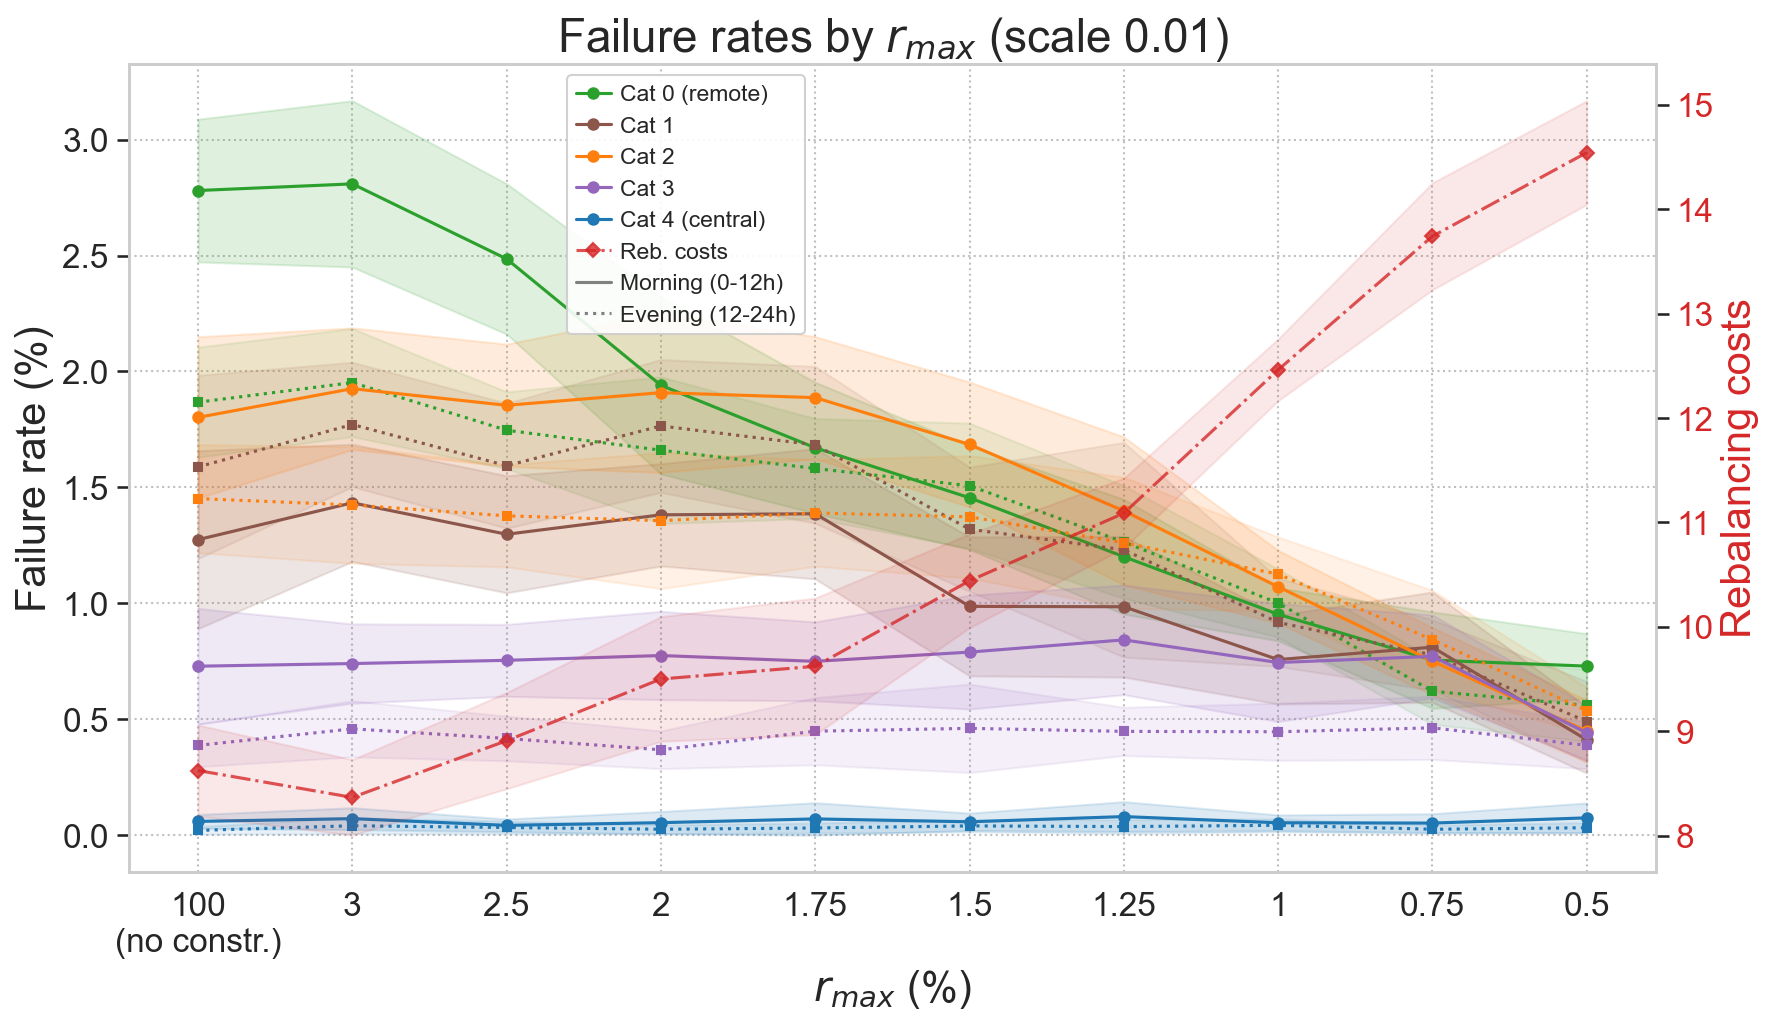
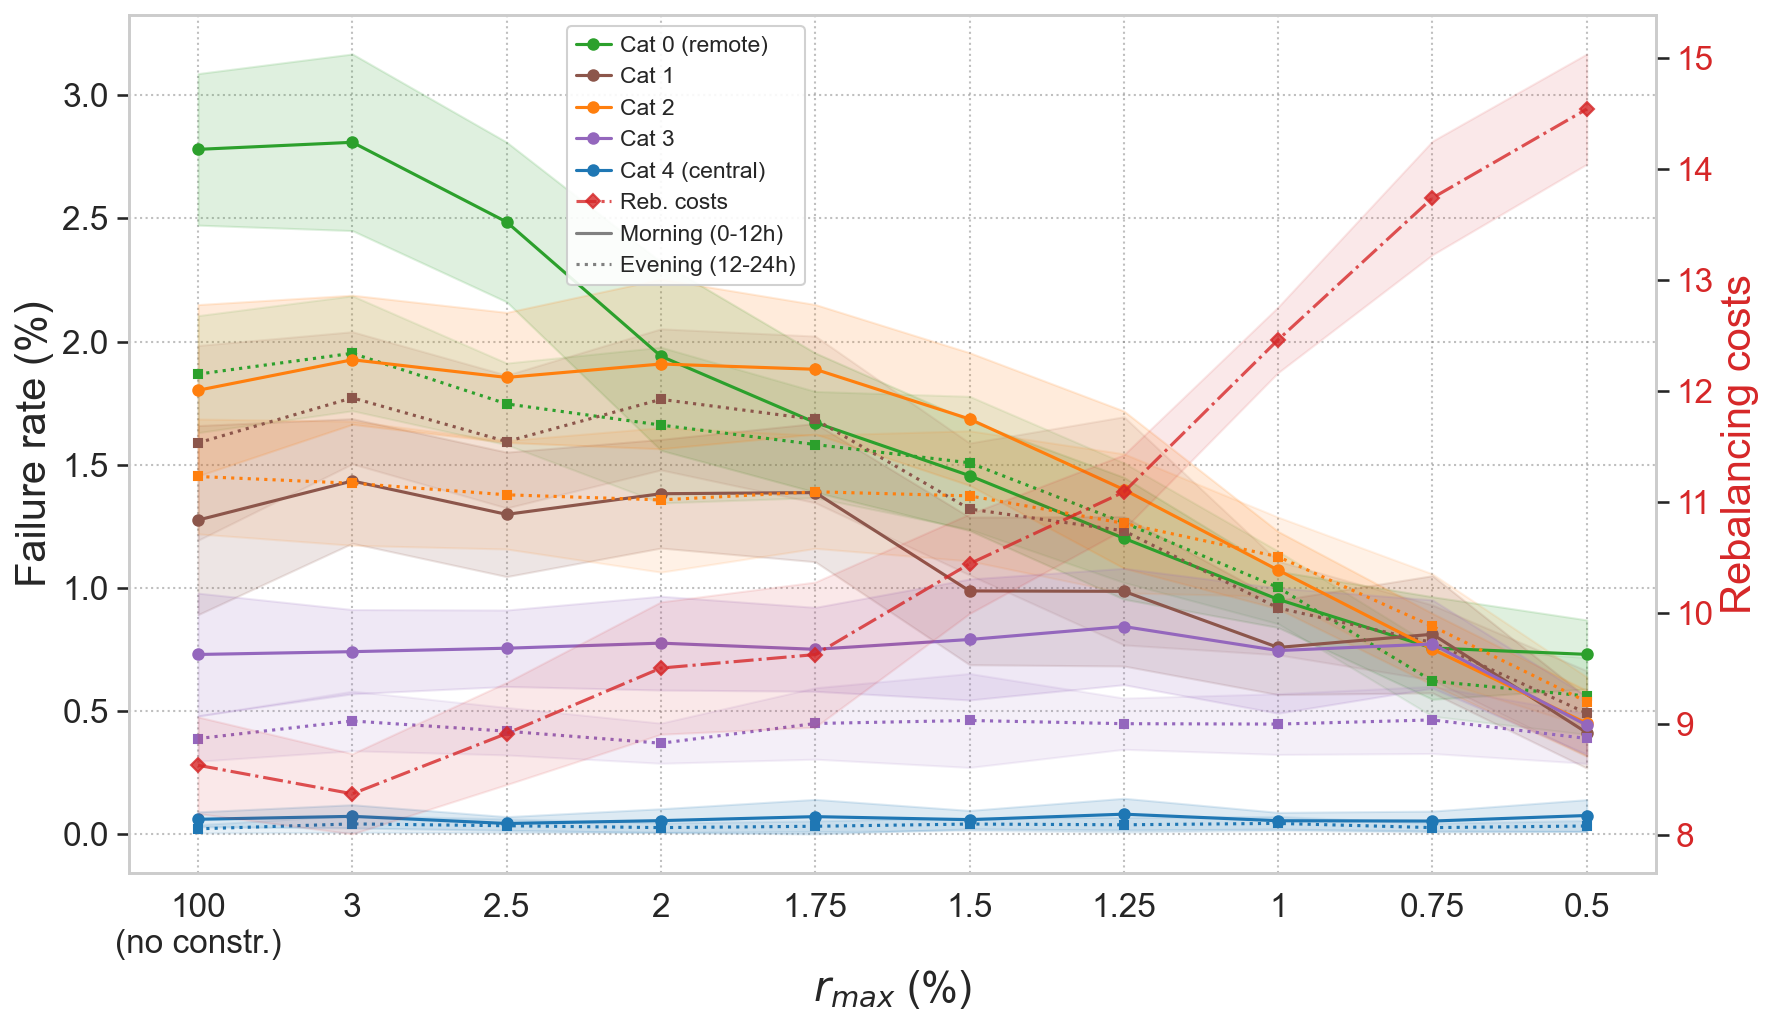
Improve plots for thesis document

diff --git a/cmdp/plots/boxplots.py b/cmdp/plots/boxplots.py
@@ -69,6 +69,7 @@ def tick_fmt(val, pos):
 
 
 r_max_labels = [_fmt(r) for r in r_values]
+r_max_pct_labels = [_fmt(round(r * 100, 4)) for r in r_values]
 num_r_max = len(r_values)
 
 # GINI INDEX
@@ -76,7 +77,7 @@ num_r_max = len(r_values)
 sns.set(style="whitegrid")
 fig, ax = plt.subplots(figsize=(12, 6), dpi=100)
 box_color = sns.color_palette("viridis", 11)[7]
-box = ax.boxplot(gini, patch_artist=True, notch=False, vert=True, widths=0.6)
+box = ax.boxplot(gini * 100, patch_artist=True, notch=False, vert=True, widths=0.6)
 for patch in box["boxes"]:
     patch.set_facecolor(box_color)
     patch.set_edgecolor("black")
@@ -90,14 +91,14 @@ for median in box["medians"]:
     median.set(color="black", linewidth=1.5)
 for flier in box["fliers"]:
     flier.set(marker="o", color="red", alpha=0.75)
-ax.set_xlabel(r"$r_{max}$", fontsize=36)
-ax.set_ylabel("Gini index", fontsize=36)
+ax.set_xlabel(r"$r_{max}$ [%]", fontsize=36)
+ax.set_ylabel("Gini index [%]", fontsize=36)
 ax.grid(True, which="major", linestyle=":", linewidth=1, color="grey", alpha=0.7)
 ax.set_xticks(range(1, num_r_max + 1))
-ax.set_xticklabels(r_max_labels, fontsize=34)
+ax.set_xticklabels(r_max_pct_labels, fontsize=26)
 ax.invert_xaxis()
 ax.tick_params(labelsize=34)
-ax.yaxis.set_major_locator(MultipleLocator(0.05))
+ax.yaxis.set_major_locator(MultipleLocator(5))
 ax.yaxis.set_major_formatter(FuncFormatter(tick_fmt))
 plt.tight_layout()
 if args.save:
@@ -107,83 +108,53 @@ if args.save:
     )
 plt.show()
 
-# MAX CATEGORY FAILURE RATE (MORNING)
+# MAX CATEGORY FAILURE RATE (MORNING + EVENING, SIDE BY SIDE)
+# r_max is shown in percent so the x-axis matches the percent y-axis.
 
 sns.set(style="whitegrid")
-fig, ax = plt.subplots(figsize=(12, 6), dpi=100)
-box_color = sns.color_palette("viridis", 11)[4]
-box = ax.boxplot(
-    max_fail_morning, patch_artist=True, notch=False, vert=True, widths=0.6
-)
-for patch in box["boxes"]:
-    patch.set_facecolor(box_color)
-    patch.set_edgecolor("black")
-    patch.set_alpha(0.8)
-    patch.set_linewidth(1.5)
-for whisker in box["whiskers"]:
-    whisker.set(color="black", linewidth=1.5, linestyle="--")
-for cap in box["caps"]:
-    cap.set(color="black", linewidth=1.5)
-for median in box["medians"]:
-    median.set(color="gold", linewidth=1.5)
-for flier in box["fliers"]:
-    flier.set(marker="o", color="red", alpha=0.75)
-ax.set_xlabel(r"$r_{max}$", fontsize=36)
-ax.set_ylabel("Max fail. [%] (morning)", fontsize=28)
-ax.grid(True, which="major", linestyle=":", linewidth=1, color="grey", alpha=0.7)
-ax.set_xticks(range(1, num_r_max + 1))
-ax.set_xticklabels(r_max_labels, fontsize=34)
-ax.invert_xaxis()
-ax.tick_params(labelsize=32)
-ax.yaxis.set_major_locator(MultipleLocator(2.5))
-ax.yaxis.set_major_formatter(FuncFormatter(tick_fmt))
+fig, axes = plt.subplots(1, 2, figsize=(20, 7), dpi=100)
+r_max_pct_labels = [_fmt(round(r * 100, 4)) for r in r_values]
+
+panels = [
+    (axes[0], max_fail_morning, "Morning", 4, 2.5),
+    (axes[1], max_fail_evening, "Evening", 5, 0.5),
+]
+for ax, data, title, palette_idx, y_step in panels:
+    box_color = sns.color_palette("viridis", 11)[palette_idx]
+    box = ax.boxplot(data, patch_artist=True, notch=False, vert=True, widths=0.6)
+    for patch in box["boxes"]:
+        patch.set_facecolor(box_color)
+        patch.set_edgecolor("black")
+        patch.set_alpha(0.8)
+        patch.set_linewidth(1.5)
+    for whisker in box["whiskers"]:
+        whisker.set(color="black", linewidth=1.5, linestyle="--")
+    for cap in box["caps"]:
+        cap.set(color="black", linewidth=1.5)
+    for median in box["medians"]:
+        median.set(color="gold", linewidth=1.5)
+    for flier in box["fliers"]:
+        flier.set(marker="o", color="red", alpha=0.75)
+    # optional: draw the r_max target each box must stay under (same % units as y)
+    # for k, r in enumerate(r_values, start=1):
+    #     ax.hlines(r * 100, k - 0.3, k + 0.3, color="red", linewidth=2)
+    ax.set_title(title, fontsize=26)
+    ax.set_xlabel(r"$r_{max}$ [%]", fontsize=24)
+    if ax is axes[0]:
+        ax.set_ylabel("Max failure rate [%]", fontsize=22)
+    ax.grid(True, which="major", linestyle=":", linewidth=1, color="grey", alpha=0.7)
+    ax.set_xticks(range(1, num_r_max + 1))
+    ax.set_xticklabels(r_max_pct_labels, fontsize=18)
+    ax.invert_xaxis()
+    ax.tick_params(labelsize=20)
+    ax.yaxis.set_major_locator(MultipleLocator(y_step))
+    ax.yaxis.set_major_formatter(FuncFormatter(tick_fmt))
 plt.tight_layout()
 if args.save:
     plt.savefig(
         os.path.join(
             PLOT_DIR,
-            f"boxplot_max_failure_rate_morning_{args.categories}_cat_{bf_token}.png",
-        ),
-        format="png",
-    )
-plt.show()
-
-# MAX CATEGORY FAILURE RATE (EVENING)
-
-sns.set(style="whitegrid")
-fig, ax = plt.subplots(figsize=(12, 6), dpi=100)
-box_color = sns.color_palette("viridis", 11)[5]
-box = ax.boxplot(
-    max_fail_evening, patch_artist=True, notch=False, vert=True, widths=0.6
-)
-for patch in box["boxes"]:
-    patch.set_facecolor(box_color)
-    patch.set_edgecolor("black")
-    patch.set_alpha(0.8)
-    patch.set_linewidth(1.5)
-for whisker in box["whiskers"]:
-    whisker.set(color="black", linewidth=1.5, linestyle="--")
-for cap in box["caps"]:
-    cap.set(color="black", linewidth=1.5)
-for median in box["medians"]:
-    median.set(color="gold", linewidth=1.5)
-for flier in box["fliers"]:
-    flier.set(marker="o", color="red", alpha=0.75)
-ax.set_xlabel(r"$r_{max}$", fontsize=36)
-ax.set_ylabel("Max fail. [%] (evening)", fontsize=28)
-ax.grid(True, which="major", linestyle=":", linewidth=1, color="grey", alpha=0.7)
-ax.set_xticks(range(1, num_r_max + 1))
-ax.set_xticklabels(r_max_labels, fontsize=34)
-ax.invert_xaxis()
-ax.tick_params(labelsize=34)
-ax.yaxis.set_major_locator(MultipleLocator(0.5))
-ax.yaxis.set_major_formatter(FuncFormatter(tick_fmt))
-plt.tight_layout()
-if args.save:
-    plt.savefig(
-        os.path.join(
-            PLOT_DIR,
-            f"boxplot_max_failure_rate_evening_{args.categories}_cat_{bf_token}.png",
+            f"boxplot_max_failure_rate_{args.categories}_cat_{bf_token}.png",
         ),
         format="png",
     )

diff --git a/cmdp/plots/paretoplots.py b/cmdp/plots/paretoplots.py
@@ -1,7 +1,7 @@
 """
 CMDP Pareto-style cost vs max-failure-rate plots from evaluation outputs.
 
-Generates separate figures for morning (period 0) and evening (period 1).
+Generates one side-by-side figure with morning (period 0) and evening (period 1).
 
 Usage:
     uv run cmdp/plots/paretoplots.py --categories 5 --failure-cost-coef 0.0 --save
@@ -60,7 +60,13 @@ bf_token = f"bf{fmt_token(args.failure_cost_coef)}"
 max_fr_raw = np.load(
     os.path.join(RESULTS_DIR, f"max_failure_rate_per_period_10seeds_{bf_token}.npy")
 )
-cost_raw = np.load(os.path.join(RESULTS_DIR, f"cost_10seeds_{bf_token}.npy"))
+# Service cost = rebalancing + fleet only. Failures are governed by the
+# constraints, so they are excluded here (note: cost_10seeds also folds in a
+# failure_rate/10 term, which is intentionally left out of this tradeoff axis).
+cost_reb_raw = np.load(os.path.join(RESULTS_DIR, f"cost_reb_10seeds_{bf_token}.npy"))
+cost_bikes_raw = np.load(
+    os.path.join(RESULTS_DIR, f"cost_bikes_10seeds_{bf_token}.npy")
+)
 
 if len(max_fr_raw) != len(R_MAX_VALUES):
     raise ValueError(
@@ -70,9 +76,12 @@ if len(max_fr_raw) != len(R_MAX_VALUES):
 r_values = R_MAX_VALUES
 num_r_max = len(r_values)
 
-# Cost: shape (num_r_max, num_seeds) -> average over seeds
-cost = cost_raw.transpose()
-avg_costs = [np.mean(cost[:, i]) for i in range(num_r_max)]
+# Cost arrays: shape (num_r_max, num_seeds) -> rebalancing + fleet/100, seed-averaged
+cost_reb = cost_reb_raw.transpose()
+cost_bikes = cost_bikes_raw.transpose()
+avg_costs = [
+    float(np.mean(cost_reb[:, i] + cost_bikes[:, i] / 100)) for i in range(num_r_max)
+]
 
 # Max failure rates per period: average over seeds
 avg_max_fr_morning = [np.mean(max_fr_raw[i, :, 0]) for i in range(num_r_max)]
@@ -83,7 +92,7 @@ period_data = [
     ("evening", avg_max_fr_evening),
 ]
 
-labels = [rf"$r_{{max}}$={_fmt(r)}" for r in r_values]
+labels = [rf"$r_{{max}}$={_fmt(round(r * 100, 4))}%" for r in r_values]
 
 # Per-point label offsets per period
 morning_label_offsets = {}
@@ -97,9 +106,9 @@ for value, offset in [
 evening_label_offsets = {}
 for value, offset in [
     (1.0, (-15, -25)),
-    (0.20, (-25, -28)),
-    (0.15, (-15, -25)),
-    (0.125, (0, 8)),
+    (0.20, (8, -28)),
+    (0.15, (-35, -25)),
+    (0.125, (-30, 8)),
     (0.10, (7, 8)),
     (0.0875, (-15, -25)),
 ]:
@@ -109,9 +118,10 @@ for value, offset in [
 DEFAULT_OFFSET = (8, 8)  # above and to the right
 
 sns.set(style="whitegrid")
+fig, axes = plt.subplots(1, 2, figsize=(20, 7), dpi=100)
 
-for period_name, avg_fr in period_data:
-    fig, ax = plt.subplots(figsize=(10, 6), dpi=100)
+for idx, (period_name, avg_fr) in enumerate(period_data):
+    ax = axes[idx]
 
     pareto_indices = compute_pareto_frontier(avg_costs, avg_fr)
     dominated_indices = [i for i in range(num_r_max) if i not in pareto_indices]
@@ -152,22 +162,24 @@ for period_name, avg_fr in period_data:
             (avg_costs[i], avg_fr[i]),
             textcoords="offset points",
             xytext=xytext,
-            fontsize=20,
+            fontsize=16,
         )
 
     # Label dominated points with short labels
     for i in dominated_indices:
         xytext = label_offsets.get(i, DEFAULT_OFFSET)
         ax.annotate(
-            _fmt(r_values[i]),
+            f"{_fmt(round(r_values[i] * 100, 4))}%",
             (avg_costs[i], avg_fr[i]),
             textcoords="offset points",
             xytext=xytext,
-            fontsize=20,
+            fontsize=16,
         )
 
     # Legend
-    dominated_vals = [_fmt(r_values[i]) for i in dominated_indices]
+    dominated_vals = [
+        f"{_fmt(round(r_values[i] * 100, 4))}%" for i in dominated_indices
+    ]
     handles = []
     pareto_marker = ax.scatter(
         [], [], marker="s", color="green", s=120, label="Pareto-optimal"
@@ -181,17 +193,19 @@ for period_name, avg_fr in period_data:
         handles.append(dominated_marker)
     ax.legend(
         handles=handles,
-        fontsize=20,
+        fontsize=16,
         loc="best",
         framealpha=0.4,
     )
 
-    ax.set_ylabel("Max failure rate (%)", fontsize=26)
-    ax.set_xlabel("Global service cost", fontsize=26)
-    ax.tick_params(labelsize=26)
+    ax.set_title(period_name.capitalize(), fontsize=26)
+    ax.set_xlabel("Global service cost", fontsize=24)
+    if idx == 0:
+        ax.set_ylabel("Max failure rate (%)", fontsize=24)
+    ax.tick_params(labelsize=20)
     ax.grid(True, which="major", linestyle=":", linewidth=1, color="grey", alpha=0.7)
 
-    # Extend x-axis to the right so the .05 label fits
+    # Extend x-axis to the right so the rightmost label fits
     xlo, xhi = ax.get_xlim()
     ax.set_xlim(xlo, xhi + 5)
 
@@ -199,13 +213,13 @@ for period_name, avg_fr in period_data:
         ylo, yhi = ax.get_ylim()
         ax.set_ylim(ylo, max(yhi, 7.5))
 
-    plt.tight_layout()
-    if args.save:
-        plt.savefig(
-            os.path.join(
-                PLOT_DIR,
-                f"pareto_costs_maxfr_{period_name}_{cat}_cat_{bf_token}.png",
-            ),
-            format="png",
-        )
-    plt.show()
+plt.tight_layout()
+if args.save:
+    plt.savefig(
+        os.path.join(
+            PLOT_DIR,
+            f"pareto_costs_maxfr_{cat}_cat_{bf_token}.png",
+        ),
+        format="png",
+    )
+plt.show()

diff --git a/cmdp/plots/failure_rates_by_rmax.py b/cmdp/plots/failure_rates_by_rmax.py
@@ -232,7 +232,7 @@ ax.legend(
 )
 
 ax.grid(True, which="major", linestyle=":", linewidth=1, color="grey", alpha=0.5)
-ax.set_title(f"Failure rates by $r_{{max}}$ ({M} categories)", fontsize=22)
+# ax.set_title(f"Failure rates by $r_{{max}}$ ({M} categories)", fontsize=22)
 plt.tight_layout()
 
 if args.save:

diff --git a/cmdp_den_haag_case/plots/failure_rates_by_rmax.py b/cmdp_den_haag_case/plots/failure_rates_by_rmax.py
@@ -211,7 +211,7 @@ def plot_demand_scale(demand_scale, num_seeds, bf_token, save):
     )
 
     ax.grid(True, which="major", linestyle=":", linewidth=1, color="grey", alpha=0.5)
-    ax.set_title(rf"Failure rates by $r_{{max}}$ (scale {demand_scale})", fontsize=22)
+    # ax.set_title(rf"Failure rates by $r_{{max}}$ (scale {demand_scale})", fontsize=22)
     plt.tight_layout()
 
     if save:

diff --git a/CLAUDE.md b/CLAUDE.md
@@ -1,6 +1,8 @@
 # General Rules
 
-Ask for clarification whenever you're unsure, your goal is to communicate and iterate, there will never be a perfect response, but it's important to keep improving it as much as possible. Try to be straightforward, concise but not overly. Avoid using an excessive amount of adjectives and use simple words instead of overly complex ones unless necessary. Never use dashes (—) for parenthetical statements and use ":" only if necessary, not to add emphasis. Do not say "we" or "I" but keep it impersonal. Try not to be sensationalistic but instead try to generally be humble.
+Read README.md and AGENTS.md right after reading this file.
+
+Ask for clarification whenever you're unsure, your goal is to communicate and iterate, there will never be a perfect response, but it's important to keep improving it as much as possible. Try to be straightforward, concise but not overly. Avoid using an excessive amount of adjectives and use simple words instead of overly complex ones unless necessary. Every word you write has to be justified, especially if writing in latex. Evaluate every word you are writing and if if it doesn't make sense in the context I'd rather u cut it completely and be concise. Never use dashes (—) for parenthetical statements and use ":" only if necessary, not to add emphasis. Do not say "we" or "I" but keep it impersonal. Try not to be sensationalistic but instead try to generally be humble.
 
 When working in latex, just give me changed phrase(s) (not whole document or chapter/section) in a latex code block. Don't go to new lines in the same paragraph. Use web tools to justify something, never write something as a given. When you're unsure about something that you can't look up you can ask me, if it's something I didn't tell you or wasn't in your knowledge: ask me. If it's something about a paper or a dataset that is publicly available: look it up and find the right paper, give the link to me as well as I want to double check what you're writing. Write in US english.
 

diff --git a/README.md b/README.md
@@ -38,7 +38,7 @@ FRLSR/
 ## Setup
 
 1. Clone the repository
-2. Install dependencies with: `uv sync` (also needed for `research_support`)
+2. Install dependencies with: `uv sync` (also needed for `research_support/`)
 
 ## Beta formulation
 